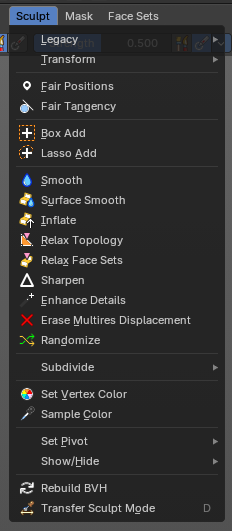
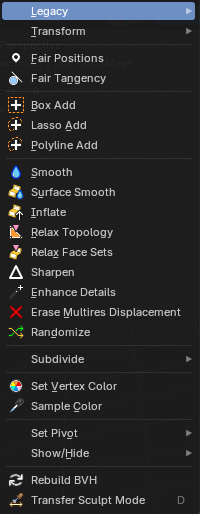
Sculpt menu: refresh menu pictures, add Polyline Trim to Legacy (#1364)

Changed region(s): [[0.0, 0.0, 1.0, 1.0]]

diff --git a/docs2/content/editors/3d-viewport/mesh/sculpt/header.md b/docs2/content/editors/3d-viewport/mesh/sculpt/header.md
@@ -455,9 +455,10 @@ Calls a rectangle tool that cuts away mesh parts, dependent of the view.
 
 | Entry | What it does |
 | ------------ | ----------------------------------------------------------------------------------------------------------------------------------------------------------------------------------------------------------------------------------------- |
-| Lasso Trim | Calls a rectangle tool that cuts away mesh parts, dependent of the view. |
+| Lasso Trim | Draw a free lasso shape, and the mesh inside it is cut away, seen from the current view. |
 | Line Trim | Calls a line tool that cuts away mesh parts based on ab underside of a line that you can draw from the first click to a second click. The line will show a gradient, any part of the mesh on that side of the gradient will be booleaned. |
-| Line Project | Calls a rectangle tool that cuts away mesh parts, dependant of the view. |
+| Line Project | Draw a line, and the mesh on the shaded side is flattened onto that line. |
+| Polyline Trim | Click point by point to draw a shape with straight sides, then confirm. The mesh inside it is cut away, seen from the current view. |
 
 
 ### Transform submenu
